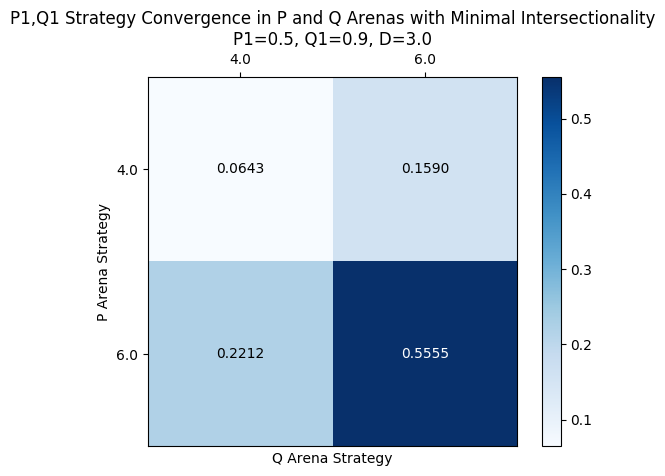
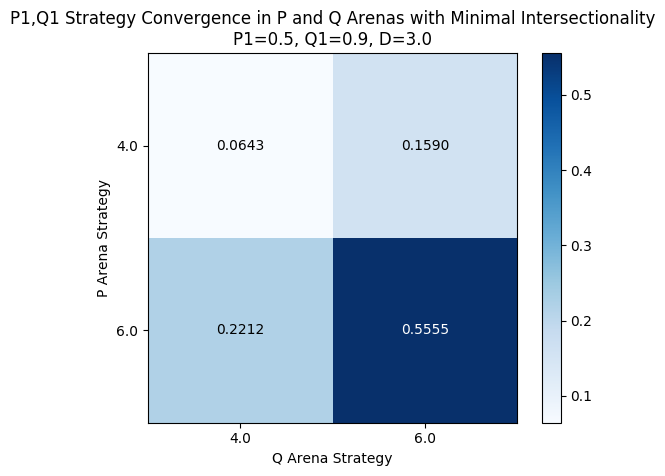
Moved ticks to bottom for Q Arena strategies

diff --git a/src/main/python3/viz.py b/src/main/python3/viz.py
@@ -109,8 +109,6 @@ class EGTResult:
         ax.set_xticklabels(np.array(labels))
         ax.set_yticklabels(np.array(labels))
 
-        ax.xaxis.tick_top()
-
         heatmap = plt.imshow(self.result_matrix, cmap='Blues', interpolation='nearest')
 
         # Loop over data dimensions and create text annotations.
